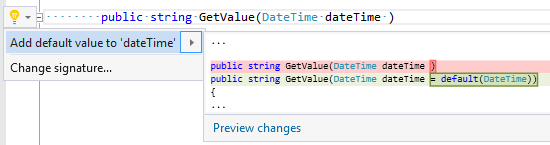
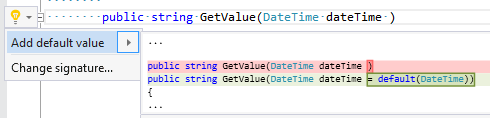
Change refactoring title

diff --git a/source/Refactorings/Refactorings/AddDefaultValueToParameterRefactoring.cs b/source/Refactorings/Refactorings/AddDefaultValueToParameterRefactoring.cs
@@ -30,7 +30,7 @@ namespace Pihrtsoft.CodeAnalysis.CSharp.Refactorings
                 if (typeSymbol?.IsErrorType() == false)
                 {
                     context.RegisterRefactoring(
-                        $"Add default value to '{parameter.Identifier}'",
+                        "Add default value",
                         cancellationToken =>
                         {
                             return RefactorAsync(
